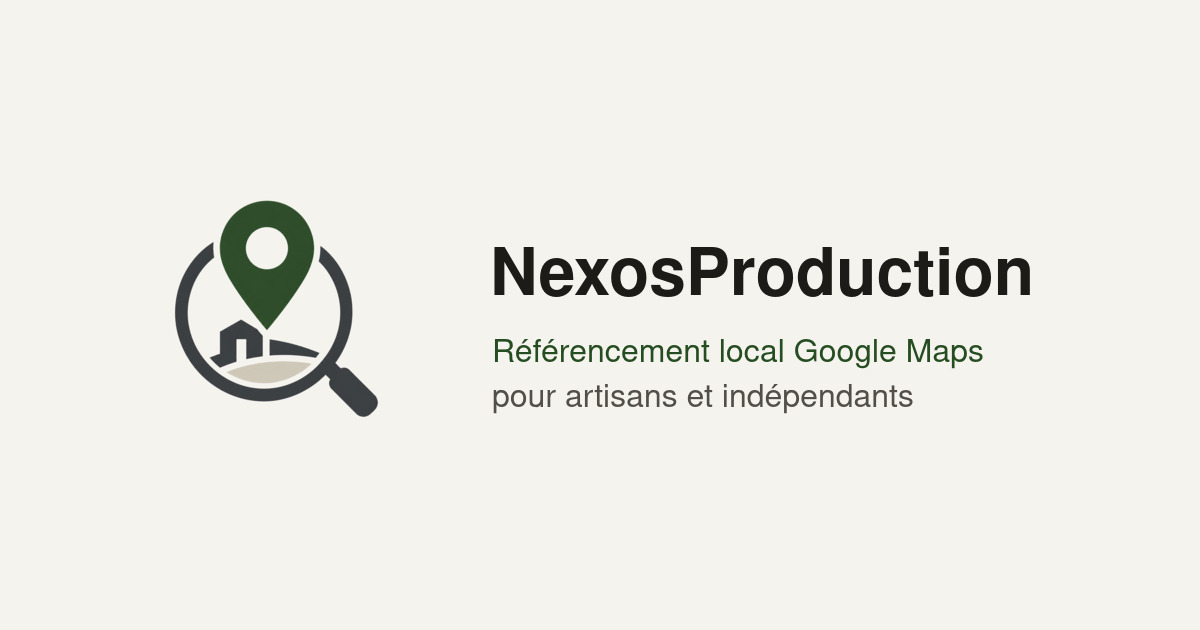
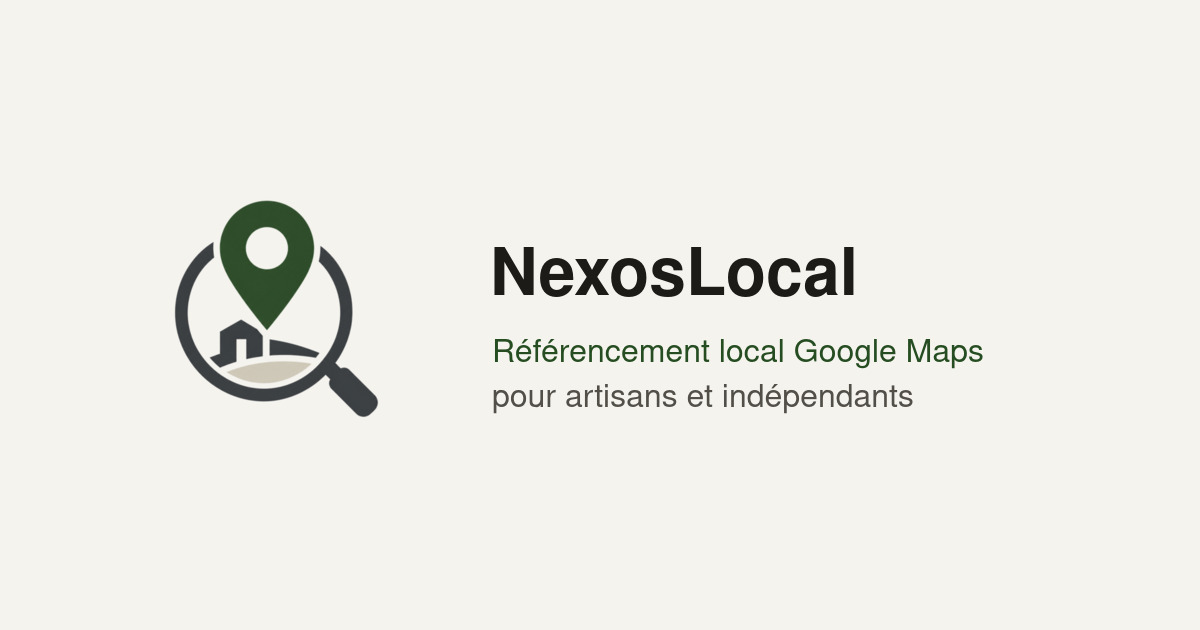
Rebranding NexosProduction → NexosLocal, migration vers nexoslocal.fr
- Remplacement du domaine dans tout le code (meta, JSON-LD, canonical,
  sitemap, robots.txt) : nexosproduction.fr → nexoslocal.fr
- Remplacement du nom de marque partout : NexosProduction → NexosLocal
- Ajout d'une redirection 301 (vercel.json) de l'ancien domaine vers
  le nouveau, basée sur le host
- Régénération de og.jpg avec le nouveau nom
- Les adresses email restent sur [email redacted] tant que
  la boîte mail sur le nouveau domaine n'est pas configurée

Changed region(s): [[0.5858, 0.3921, 0.8633, 0.4825]]

diff --git a/index.html b/index.html
@@ -10,30 +10,30 @@
   <!-- End Google Tag Manager -->
   <meta charset="UTF-8">
   <meta name="viewport" content="width=device-width, initial-scale=1.0">
-  <title>Référencement local Google Maps pour artisans — NexosProduction</title>
+  <title>Référencement local Google Maps pour artisans — NexosLocal</title>
   <meta name="description" content="Optimisation Google Business Profile et annuaires locaux pour coiffeurs, plombiers, kinés, garagistes et artisans. 150 €/mois, sans engagement. Théo Vignal.">
   <meta name="robots" content="index, follow, max-image-preview:large, max-snippet:-1, max-video-preview:-1">
-  <meta name="author" content="NexosProduction">
+  <meta name="author" content="NexosLocal">
   <meta name="theme-color" content="#254D21">
   <meta name="format-detection" content="telephone=yes">
-  <link rel="canonical" href="https://www.nexosproduction.fr/">
+  <link rel="canonical" href="https://www.nexoslocal.fr/">
 
   <!-- Open Graph -->
   <meta property="og:type" content="website">
-  <meta property="og:url" content="https://www.nexosproduction.fr/">
-  <meta property="og:title" content="NexosProduction — SEO Google Maps pour artisans locaux">
+  <meta property="og:url" content="https://www.nexoslocal.fr/">
+  <meta property="og:title" content="NexosLocal — SEO Google Maps pour artisans locaux">
   <meta property="og:description" content="Référencement local Google Maps pour coiffeurs, plombiers, kinés, garagistes. 150 €/mois, sans engagement. Théo Vignal.">
-  <meta property="og:image" content="https://www.nexosproduction.fr/og.jpg">
+  <meta property="og:image" content="https://www.nexoslocal.fr/og.jpg">
   <meta property="og:image:width" content="1200">
   <meta property="og:image:height" content="630">
   <meta property="og:locale" content="fr_FR">
-  <meta property="og:site_name" content="NexosProduction">
+  <meta property="og:site_name" content="NexosLocal">
 
   <!-- Twitter Card -->
   <meta name="twitter:card" content="summary_large_image">
-  <meta name="twitter:title" content="NexosProduction — SEO Google Maps pour artisans locaux">
+  <meta name="twitter:title" content="NexosLocal — SEO Google Maps pour artisans locaux">
   <meta name="twitter:description" content="Référencement local Google Maps pour coiffeurs, plombiers, kinés, garagistes. 150 €/mois, sans engagement.">
-  <meta name="twitter:image" content="https://www.nexosproduction.fr/og.jpg">
+  <meta name="twitter:image" content="https://www.nexoslocal.fr/og.jpg">
 
   <!-- Favicon -->
   <link rel="icon" type="image/png" sizes="32x32" href="/favicon-32.png">
@@ -52,11 +52,11 @@
     "@graph": [
       {
         "@type": "ProfessionalService",
-        "@id": "https://www.nexosproduction.fr/#business",
-        "name": "NexosProduction",
-        "url": "https://www.nexosproduction.fr",
-        "image": "https://www.nexosproduction.fr/og.jpg",
-        "logo": "https://www.nexosproduction.fr/icon-512.png",
+        "@id": "https://www.nexoslocal.fr/#business",
+        "name": "NexosLocal",
+        "url": "https://www.nexoslocal.fr",
+        "image": "https://www.nexoslocal.fr/og.jpg",
+        "logo": "https://www.nexoslocal.fr/icon-512.png",
         "description": "Référencement local Google Maps pour les indépendants locaux — coiffeurs, plombiers, kinés, garagistes, tatoueurs. Optimisation Google Business Profile et citations sur les annuaires. 150 €/mois, sans engagement.",
         "telephone": "[phone redacted]",
         "email": "[email redacted]",
@@ -112,10 +112,10 @@
       },
       {
         "@type": "WebSite",
-        "@id": "https://www.nexosproduction.fr/#website",
-        "url": "https://www.nexosproduction.fr",
-        "name": "NexosProduction",
-        "publisher": { "@id": "https://www.nexosproduction.fr/#business" }
+        "@id": "https://www.nexoslocal.fr/#website",
+        "url": "https://www.nexoslocal.fr",
+        "name": "NexosLocal",
+        "publisher": { "@id": "https://www.nexoslocal.fr/#business" }
       },
       {
         "@type": "FAQPage",
@@ -141,7 +141,7 @@
             "name": "Qui s'occupe de mon dossier ?",
             "acceptedAnswer": {
               "@type": "Answer",
-              "text": "Théo Vignal, seul. NexosProduction est une micro-agence d'une personne. Vous avez le même interlocuteur du premier au dernier jour. Réponse garantie sous 48 heures."
+              "text": "Théo Vignal, seul. NexosLocal est une micro-agence d'une personne. Vous avez le même interlocuteur du premier au dernier jour. Réponse garantie sous 48 heures."
             }
           },
           {
@@ -860,7 +860,7 @@
   <!-- NAVIGATION -->
   <header id="nav">
     <div class="nav-inner">
-      <div class="nav-logo">NexosProduction</div>
+      <div class="nav-logo">NexosLocal</div>
       <a href="/contact" class="nav-cta">Me contacter</a>
     </div>
   </header>
@@ -1004,7 +1004,7 @@
             <div class="content">
               <p>Les audits de grandes agences sont gratuits car ils sont conçus pour alarmer, pas pour informer. L'objectif est de vous faire signer rapidement un contrat de 12 à 24 mois à 300–500&nbsp;€/mois.</p>
               <p>Une fois engagé, vous parlez à un interlocuteur différent à chaque appel. Résilier avant terme est souvent compliqué et coûteux.</p>
-              <p>NexosProduction, c'est une personne. Pas de contrat. Pas d'engagement. Si vous n'êtes pas satisfait, vous arrêtez. C'est aussi simple que ça.</p>
+              <p>NexosLocal, c'est une personne. Pas de contrat. Pas d'engagement. Si vous n'êtes pas satisfait, vous arrêtez. C'est aussi simple que ça.</p>
               <div class="callout-block" style="margin-top: 1.75rem;">
                 Je n'accepte pas tous les dossiers. Si je ne suis pas convaincu de pouvoir vous faire progresser, je vous le dis avant de commencer et je ne vous facture rien.
               </div>
@@ -1031,7 +1031,7 @@
                 <div>
                   <p>Je m'appelle Théo Vignal. Je baigne dans le digital depuis longtemps.</p>
                   <p>Je me suis spécialisé dans le référencement local Google Maps parce que c'est le levier le plus concret pour les indépendants qui vivent de leur zone géographique. Je ne fais pas de jargon, pas de fausse promesse, juste un travail méthodique sur ce que Google évalue réellement.</p>
-                  <p>NexosProduction c'est moi seul. Vous avez mon numéro, mon mail, vous me parlez directement, du premier au dernier jour.</p>
+                  <p>NexosLocal c'est moi seul. Vous avez mon numéro, mon mail, vous me parlez directement, du premier au dernier jour.</p>
                 </div>
               </div>
             </div>
@@ -1061,7 +1061,7 @@
                 </div>
                 <div class="faq-item">
                   <p class="faq-q">Qui s'occupe de mon dossier&nbsp;?</p>
-                  <p class="faq-a">Théo Vignal, seul. NexosProduction est une micro-agence d'une personne. Vous avez le même interlocuteur du premier au dernier jour. Réponse garantie sous 48&nbsp;heures.</p>
+                  <p class="faq-a">Théo Vignal, seul. NexosLocal est une micro-agence d'une personne. Vous avez le même interlocuteur du premier au dernier jour. Réponse garantie sous 48&nbsp;heures.</p>
                 </div>
                 <div class="faq-item">
                   <p class="faq-q">Est-ce que ça marche pour mon métier&nbsp;?</p>
@@ -1091,7 +1091,7 @@
   <!-- FOOTER -->
   <footer>
     <div class="container">
-      <p class="footer-identity">Théo Vignal — NexosProduction</p>
+      <p class="footer-identity">Théo Vignal — NexosLocal</p>
       <div class="footer-links">
         <a href="/contact">Me contacter</a>
         <a href="/mentions-legales.html">Mentions légales</a>

diff --git a/mentions-legales.html b/mentions-legales.html
@@ -11,10 +11,10 @@
   <!-- End Google Tag Manager -->
   <meta charset="UTF-8">
   <meta name="viewport" content="width=device-width, initial-scale=1.0">
-  <title>Mentions légales | NexosProduction</title>
-  <meta name="description" content="Mentions légales du site nexosproduction.fr — éditeur, hébergeur et informations légales de NexosProduction, référencement local Google Maps.">
+  <title>Mentions légales | NexosLocal</title>
+  <meta name="description" content="Mentions légales du site nexoslocal.fr — éditeur, hébergeur et informations légales de NexosLocal, référencement local Google Maps.">
   <meta name="robots" content="index, follow">
-  <link rel="canonical" href="https://www.nexosproduction.fr/mentions-legales">
+  <link rel="canonical" href="https://www.nexoslocal.fr/mentions-legales">
   <meta name="theme-color" content="#A86520">
   <link rel="apple-touch-icon" href="/apple-touch-icon.png">
   <link rel="manifest" href="/site.webmanifest">
@@ -38,7 +38,7 @@
   <!-- End Google Tag Manager (noscript) -->
 
 <nav class="nav">
-  <a href="/" class="nav-logo" aria-label="NexosProduction — accueil">NEXOS<b>.</b>PRODUCTION</a>
+  <a href="/" class="nav-logo" aria-label="NexosLocal — accueil">NEXOS<b>.</b>LOCAL</a>
   <ul class="nav-links">
     <li><a href="/#faq">FAQ</a></li>
   </ul>
@@ -53,7 +53,7 @@
   <div class="container narrow">
     <div class="eyebrow">Informations légales</div>
     <h1>Mentions légales</h1>
-    <p class="lead">Conformément à la loi n°2004-575 du 21 juin 2004 pour la confiance dans l'économie numérique (LCEN), voici les informations relatives à l'éditeur et à l'hébergeur du site <strong>nexosproduction.fr</strong>.</p>
+    <p class="lead">Conformément à la loi n°2004-575 du 21 juin 2004 pour la confiance dans l'économie numérique (LCEN), voici les informations relatives à l'éditeur et à l'hébergeur du site <strong>nexoslocal.fr</strong>.</p>
   </div>
 </header>
 
@@ -62,8 +62,8 @@
 
     <h2>1. Éditeur du site</h2>
     <p>
-      Le site <strong>nexosproduction.fr</strong> est édité par&nbsp;:<br>
-      <strong>NexosProduction</strong> — entreprise individuelle (micro-entrepreneur).<br>
+      Le site <strong>nexoslocal.fr</strong> est édité par&nbsp;:<br>
+      <strong>NexosLocal</strong> — entreprise individuelle (micro-entrepreneur).<br>
       Représentée par&nbsp;: <em>en cours de mise à jour</em><br>
       Adresse&nbsp;: <em>en cours de mise à jour</em>, France<br>
       SIRET&nbsp;: <em>en cours de mise à jour</em><br>
@@ -73,7 +73,7 @@
     </p>
 
     <h2>2. Responsable de la publication</h2>
-    <p><em>en cours de mise à jour</em>, en qualité de représentant légal de NexosProduction, joignable à l'adresse <a href="mailto:[email redacted]">[email redacted]</a>.</p>
+    <p><em>en cours de mise à jour</em>, en qualité de représentant légal de NexosLocal, joignable à l'adresse <a href="mailto:[email redacted]">[email redacted]</a>.</p>
 
     <h2>3. Hébergeur</h2>
     <p>
@@ -84,16 +84,16 @@
     </p>
 
     <h2>4. Propriété intellectuelle</h2>
-    <p>L'ensemble des éléments composant le site (textes, graphismes, logo, code, structure, mise en page) est, sauf mention contraire, la propriété exclusive de NexosProduction et est protégé par le droit français et international de la propriété intellectuelle. Toute reproduction, représentation, modification ou exploitation totale ou partielle, sans autorisation écrite préalable, est interdite et constitue une contrefaçon au sens des articles L.335-2 et suivants du Code de la propriété intellectuelle.</p>
+    <p>L'ensemble des éléments composant le site (textes, graphismes, logo, code, structure, mise en page) est, sauf mention contraire, la propriété exclusive de NexosLocal et est protégé par le droit français et international de la propriété intellectuelle. Toute reproduction, représentation, modification ou exploitation totale ou partielle, sans autorisation écrite préalable, est interdite et constitue une contrefaçon au sens des articles L.335-2 et suivants du Code de la propriété intellectuelle.</p>
 
     <h2>5. Données personnelles &amp; cookies</h2>
     <p>Les modalités de collecte et de traitement de vos données personnelles sont détaillées dans notre <a href="/confidentialite">politique de confidentialité</a>. Conformément au Règlement Général sur la Protection des Données (RGPD) et à la loi « Informatique et Libertés », vous disposez d'un droit d'accès, de rectification, d'effacement et d'opposition sur vos données, exerçable à l'adresse <a href="mailto:[email redacted]">[email redacted]</a>.</p>
 
     <h2>6. Liens hypertextes</h2>
-    <p>Le site peut contenir des liens vers des sites tiers. NexosProduction n'exerce aucun contrôle sur ces sites et décline toute responsabilité quant à leur contenu ou à leur politique de confidentialité.</p>
+    <p>Le site peut contenir des liens vers des sites tiers. NexosLocal n'exerce aucun contrôle sur ces sites et décline toute responsabilité quant à leur contenu ou à leur politique de confidentialité.</p>
 
     <h2>7. Crédits</h2>
-    <p>Conception, design et développement&nbsp;: NexosProduction. Polices&nbsp;: Syne, Outfit, IBM Plex Mono (SIL Open Font License).</p>
+    <p>Conception, design et développement&nbsp;: NexosLocal. Polices&nbsp;: Syne, Outfit, IBM Plex Mono (SIL Open Font License).</p>
 
     <p style="margin-top:2rem;color:var(--text-muted);font-size:0.85rem">Dernière mise à jour&nbsp;: 15 juin 2026.</p>
   </div>
@@ -103,7 +103,7 @@
   <div class="container">
     <div class="footer-grid">
       <div class="footer-brand">
-        <div class="logo">NEXOS<b>.</b>PRODUCTION</div>
+        <div class="logo">NEXOS<b>.</b>LOCAL</div>
         <p>Référencement local Google Maps pour artisans et indépendants. Un seul interlocuteur, sans engagement.</p>
         <a href="tel:[phone redacted]" class="contact-link"><svg width="14" height="14" viewBox="0 0 24 24" fill="none" stroke="currentColor" stroke-width="2" aria-hidden="true"><path d="M22 16.92v3a2 [phone redacted].[phone redacted].07A19.[phone redacted].[phone redacted] 0 012 1h3a2 2 0 012 1.72c.[phone redacted].81a2 2 0 01-.45 2.11L6.09 9.91a16 16 0 006 6l1.27-1.27a2 [phone redacted]-.45c.[phone redacted].7A2 [phone redacted].92z"/></svg> +33 (0)[phone redacted]</a>
         <a href="mailto:[email redacted]" class="contact-link"><svg width="14" height="14" viewBox="0 0 24 24" fill="none" stroke="currentColor" stroke-width="2" aria-hidden="true"><path d="M4 4h16c1.1 0 2 .9 2 2v12c0 1.1-.9 2-2 2H4c-1.1 0-2-.9-2-2V6c0-1.1.9-2 2-2z"/><polyline points="22,6 12,13 2,6"/></svg> [email redacted]</a>
@@ -127,7 +127,7 @@
       </div>
     </div>
     <div class="footer-bar">
-      <p>© 2026 NexosProduction. Tous droits réservés.</p>
+      <p>© 2026 NexosLocal. Tous droits réservés.</p>
       <p>France</p>
     </div>
   </div>

diff --git a/cgv.html b/cgv.html
@@ -11,10 +11,10 @@
   <!-- End Google Tag Manager -->
   <meta charset="UTF-8">
   <meta name="viewport" content="width=device-width, initial-scale=1.0">
-  <title>Conditions Générales de Vente (CGV) | NexosProduction</title>
-  <meta name="description" content="Conditions générales de vente de NexosProduction — référencement local Google Maps : devis, prix, paiement, délais, propriété intellectuelle et responsabilité.">
+  <title>Conditions Générales de Vente (CGV) | NexosLocal</title>
+  <meta name="description" content="Conditions générales de vente de NexosLocal — référencement local Google Maps : devis, prix, paiement, délais, propriété intellectuelle et responsabilité.">
   <meta name="robots" content="index, follow">
-  <link rel="canonical" href="https://www.nexosproduction.fr/cgv">
+  <link rel="canonical" href="https://www.nexoslocal.fr/cgv">
   <meta name="theme-color" content="#A86520">
   <link rel="apple-touch-icon" href="/apple-touch-icon.png">
   <link rel="manifest" href="/site.webmanifest">
@@ -38,7 +38,7 @@
   <!-- End Google Tag Manager (noscript) -->
 
 <nav class="nav">
-  <a href="/" class="nav-logo" aria-label="NexosProduction — accueil">NEXOS<b>.</b>PRODUCTION</a>
+  <a href="/" class="nav-logo" aria-label="NexosLocal — accueil">NEXOS<b>.</b>LOCAL</a>
   <ul class="nav-links">
     <li><a href="/#faq">FAQ</a></li>
   </ul>
@@ -53,7 +53,7 @@
   <div class="container narrow">
     <div class="eyebrow">Conditions contractuelles</div>
     <h1>Conditions Générales de Vente</h1>
-    <p class="lead">Les présentes CGV régissent les relations entre <strong>NexosProduction</strong> (le « Prestataire ») et tout client (le « Client ») dans le cadre des prestations de création de site internet et de référencement.</p>
+    <p class="lead">Les présentes CGV régissent les relations entre <strong>NexosLocal</strong> (le « Prestataire ») et tout client (le « Client ») dans le cadre des prestations de création de site internet et de référencement.</p>
   </div>
 </header>
 
@@ -61,10 +61,10 @@
   <div class="container narrow prose">
 
     <h2>Article 1 — Objet</h2>
-    <p>Les présentes conditions générales de vente s'appliquent à toutes les prestations de services conclues par NexosProduction&nbsp;: création de site vitrine, optimisation et référencement local (SEO), configuration de fiche Google Business Profile, et services associés. Toute commande implique l'acceptation sans réserve des présentes CGV.</p>
+    <p>Les présentes conditions générales de vente s'appliquent à toutes les prestations de services conclues par NexosLocal&nbsp;: création de site vitrine, optimisation et référencement local (SEO), configuration de fiche Google Business Profile, et services associés. Toute commande implique l'acceptation sans réserve des présentes CGV.</p>
 
     <h2>Article 2 — Prestataire</h2>
-    <p>NexosProduction, entreprise individuelle (micro-entrepreneur), SIRET <em>en cours de mise à jour</em>, dont les coordonnées figurent dans les <a href="/mentions-legales">mentions légales</a>.</p>
+    <p>NexosLocal, entreprise individuelle (micro-entrepreneur), SIRET <em>en cours de mise à jour</em>, dont les coordonnées figurent dans les <a href="/mentions-legales">mentions légales</a>.</p>
 
     <h2>Article 3 — Devis et commande</h2>
     <p>Chaque prestation fait l'objet d'un devis gratuit et détaillé. Le devis est valable <strong>30 jours</strong> à compter de sa date d'émission. La commande est ferme à réception du devis daté, signé et accompagné de la mention « bon pour accord », et, le cas échéant, du versement de l'acompte prévu.</p>
@@ -91,7 +91,7 @@
     <p>L'hébergement proposé est gratuit via la plateforme partenaire (Vercel). Le nom de domaine (≈ 10&nbsp;€/an) est souscrit au nom du Client, qui en reste propriétaire. Le Prestataire ne saurait être tenu responsable des interruptions de service imputables à l'hébergeur ou au registrar.</p>
 
     <h2>Article 11 — Référencement : obligation de moyens</h2>
-    <p><strong>Le référencement (SEO) constitue une obligation de moyens et non de résultat.</strong> NexosProduction met en œuvre les meilleures pratiques pour améliorer la visibilité du Client, mais ne peut garantir une position précise (ex. « 1ère position ») ni un volume de trafic donné, les classements dépendant des algorithmes de Google, de la concurrence et de facteurs indépendants de la volonté du Prestataire.</p>
+    <p><strong>Le référencement (SEO) constitue une obligation de moyens et non de résultat.</strong> NexosLocal met en œuvre les meilleures pratiques pour améliorer la visibilité du Client, mais ne peut garantir une position précise (ex. « 1ère position ») ni un volume de trafic donné, les classements dépendant des algorithmes de Google, de la concurrence et de facteurs indépendants de la volonté du Prestataire.</p>
 
     <h2>Article 12 — Responsabilité &amp; force majeure</h2>
     <p>La responsabilité du Prestataire est limitée au montant de la prestation concernée. Le Prestataire ne saurait être tenu responsable des dommages indirects. Aucune partie ne pourra être tenue responsable d'un manquement dû à un cas de force majeure au sens de l'article 1218 du Code civil.</p>
@@ -110,7 +110,7 @@
   <div class="container">
     <div class="footer-grid">
       <div class="footer-brand">
-        <div class="logo">NEXOS<b>.</b>PRODUCTION</div>
+        <div class="logo">NEXOS<b>.</b>LOCAL</div>
         <p>Référencement local Google Maps pour artisans et indépendants. Un seul interlocuteur, sans engagement.</p>
         <a href="tel:[phone redacted]" class="contact-link"><svg width="14" height="14" viewBox="0 0 24 24" fill="none" stroke="currentColor" stroke-width="2" aria-hidden="true"><path d="M22 16.92v3a2 [phone redacted].[phone redacted].07A19.[phone redacted].[phone redacted] 0 012 1h3a2 2 0 012 1.72c.[phone redacted].81a2 2 0 01-.45 2.11L6.09 9.91a16 16 0 006 6l1.27-1.27a2 [phone redacted]-.45c.[phone redacted].7A2 [phone redacted].92z"/></svg> +33 (0)[phone redacted]</a>
         <a href="mailto:[email redacted]" class="contact-link"><svg width="14" height="14" viewBox="0 0 24 24" fill="none" stroke="currentColor" stroke-width="2" aria-hidden="true"><path d="M4 4h16c1.1 0 2 .9 2 2v12c0 1.1-.9 2-2 2H4c-1.1 0-2-.9-2-2V6c0-1.1.9-2 2-2z"/><polyline points="22,6 12,13 2,6"/></svg> [email redacted]</a>
@@ -134,7 +134,7 @@
       </div>
     </div>
     <div class="footer-bar">
-      <p>© 2026 NexosProduction. Tous droits réservés.</p>
+      <p>© 2026 NexosLocal. Tous droits réservés.</p>
       <p>France</p>
     </div>
   </div>

diff --git a/confidentialite.html b/confidentialite.html
@@ -11,10 +11,10 @@
   <!-- End Google Tag Manager -->
   <meta charset="UTF-8">
   <meta name="viewport" content="width=device-width, initial-scale=1.0">
-  <title>Politique de confidentialité (RGPD) | NexosProduction</title>
-  <meta name="description" content="Politique de confidentialité de NexosProduction : données collectées, finalités, durée de conservation, cookies et vos droits RGPD.">
+  <title>Politique de confidentialité (RGPD) | NexosLocal</title>
+  <meta name="description" content="Politique de confidentialité de NexosLocal : données collectées, finalités, durée de conservation, cookies et vos droits RGPD.">
   <meta name="robots" content="index, follow">
-  <link rel="canonical" href="https://www.nexosproduction.fr/confidentialite">
+  <link rel="canonical" href="https://www.nexoslocal.fr/confidentialite">
   <meta name="theme-color" content="#A86520">
   <link rel="apple-touch-icon" href="/apple-touch-icon.png">
   <link rel="manifest" href="/site.webmanifest">
@@ -38,7 +38,7 @@
   <!-- End Google Tag Manager (noscript) -->
 
 <nav class="nav">
-  <a href="/" class="nav-logo" aria-label="NexosProduction — accueil">NEXOS<b>.</b>PRODUCTION</a>
+  <a href="/" class="nav-logo" aria-label="NexosLocal — accueil">NEXOS<b>.</b>LOCAL</a>
   <ul class="nav-links">
     <li><a href="/#faq">FAQ</a></li>
   </ul>
@@ -53,7 +53,7 @@
   <div class="container narrow">
     <div class="eyebrow">Protection des données</div>
     <h1>Politique de confidentialité</h1>
-    <p class="lead">NexosProduction s'engage à protéger votre vie privée. Cette politique explique quelles données sont collectées, pourquoi, combien de temps elles sont conservées et quels sont vos droits, conformément au RGPD et à la loi « Informatique et Libertés ».</p>
+    <p class="lead">NexosLocal s'engage à protéger votre vie privée. Cette politique explique quelles données sont collectées, pourquoi, combien de temps elles sont conservées et quels sont vos droits, conformément au RGPD et à la loi « Informatique et Libertés ».</p>
   </div>
 </header>
 
@@ -61,7 +61,7 @@
   <div class="container narrow prose">
 
     <h2>1. Responsable du traitement</h2>
-    <p>Le responsable du traitement est <strong>NexosProduction</strong>, représentée par <em>en cours de mise à jour</em>. Contact&nbsp;: <a href="mailto:[email redacted]">[email redacted]</a>.</p>
+    <p>Le responsable du traitement est <strong>NexosLocal</strong>, représentée par <em>en cours de mise à jour</em>. Contact&nbsp;: <a href="mailto:[email redacted]">[email redacted]</a>.</p>
 
     <h2>2. Données collectées</h2>
     <p>Nous collectons uniquement les données strictement nécessaires&nbsp;:</p>
@@ -110,7 +110,7 @@
   <div class="container">
     <div class="footer-grid">
       <div class="footer-brand">
-        <div class="logo">NEXOS<b>.</b>PRODUCTION</div>
+        <div class="logo">NEXOS<b>.</b>LOCAL</div>
         <p>Référencement local Google Maps pour artisans et indépendants. Un seul interlocuteur, sans engagement.</p>
         <a href="tel:[phone redacted]" class="contact-link"><svg width="14" height="14" viewBox="0 0 24 24" fill="none" stroke="currentColor" stroke-width="2" aria-hidden="true"><path d="M22 16.92v3a2 [phone redacted].[phone redacted].07A19.[phone redacted].[phone redacted] 0 012 1h3a2 2 0 012 1.72c.[phone redacted].81a2 2 0 01-.45 2.11L6.09 9.91a16 16 0 006 6l1.27-1.27a2 [phone redacted]-.45c.[phone redacted].7A2 [phone redacted].92z"/></svg> +33 (0)[phone redacted]</a>
         <a href="mailto:[email redacted]" class="contact-link"><svg width="14" height="14" viewBox="0 0 24 24" fill="none" stroke="currentColor" stroke-width="2" aria-hidden="true"><path d="M4 4h16c1.1 0 2 .9 2 2v12c0 1.1-.9 2-2 2H4c-1.1 0-2-.9-2-2V6c0-1.1.9-2 2-2z"/><polyline points="22,6 12,13 2,6"/></svg> [email redacted]</a>
@@ -134,7 +134,7 @@
       </div>
     </div>
     <div class="footer-bar">
-      <p>© 2026 NexosProduction. Tous droits réservés.</p>
+      <p>© 2026 NexosLocal. Tous droits réservés.</p>
       <p>France</p>
     </div>
   </div>

diff --git a/contact.html b/contact.html
@@ -10,11 +10,11 @@
   <!-- End Google Tag Manager -->
   <meta charset="UTF-8">
   <meta name="viewport" content="width=device-width, initial-scale=1.0">
-  <title>Me contacter — NexosProduction</title>
+  <title>Me contacter — NexosLocal</title>
   <meta name="description" content="Contactez Théo Vignal pour votre référencement local Google Maps : par téléphone, WhatsApp ou email. Réponse sous 48h.">
   <meta name="robots" content="index, follow">
   <meta name="theme-color" content="#254D21">
-  <link rel="canonical" href="https://www.nexosproduction.fr/contact">
+  <link rel="canonical" href="https://www.nexoslocal.fr/contact">
 
   <link rel="apple-touch-icon" href="/apple-touch-icon.png">
   <link rel="manifest" href="/site.webmanifest">
@@ -219,7 +219,7 @@
 
   <header id="nav">
     <div class="nav-inner">
-      <a href="/" class="nav-logo">NexosProduction</a>
+      <a href="/" class="nav-logo">NexosLocal</a>
     </div>
   </header>
 